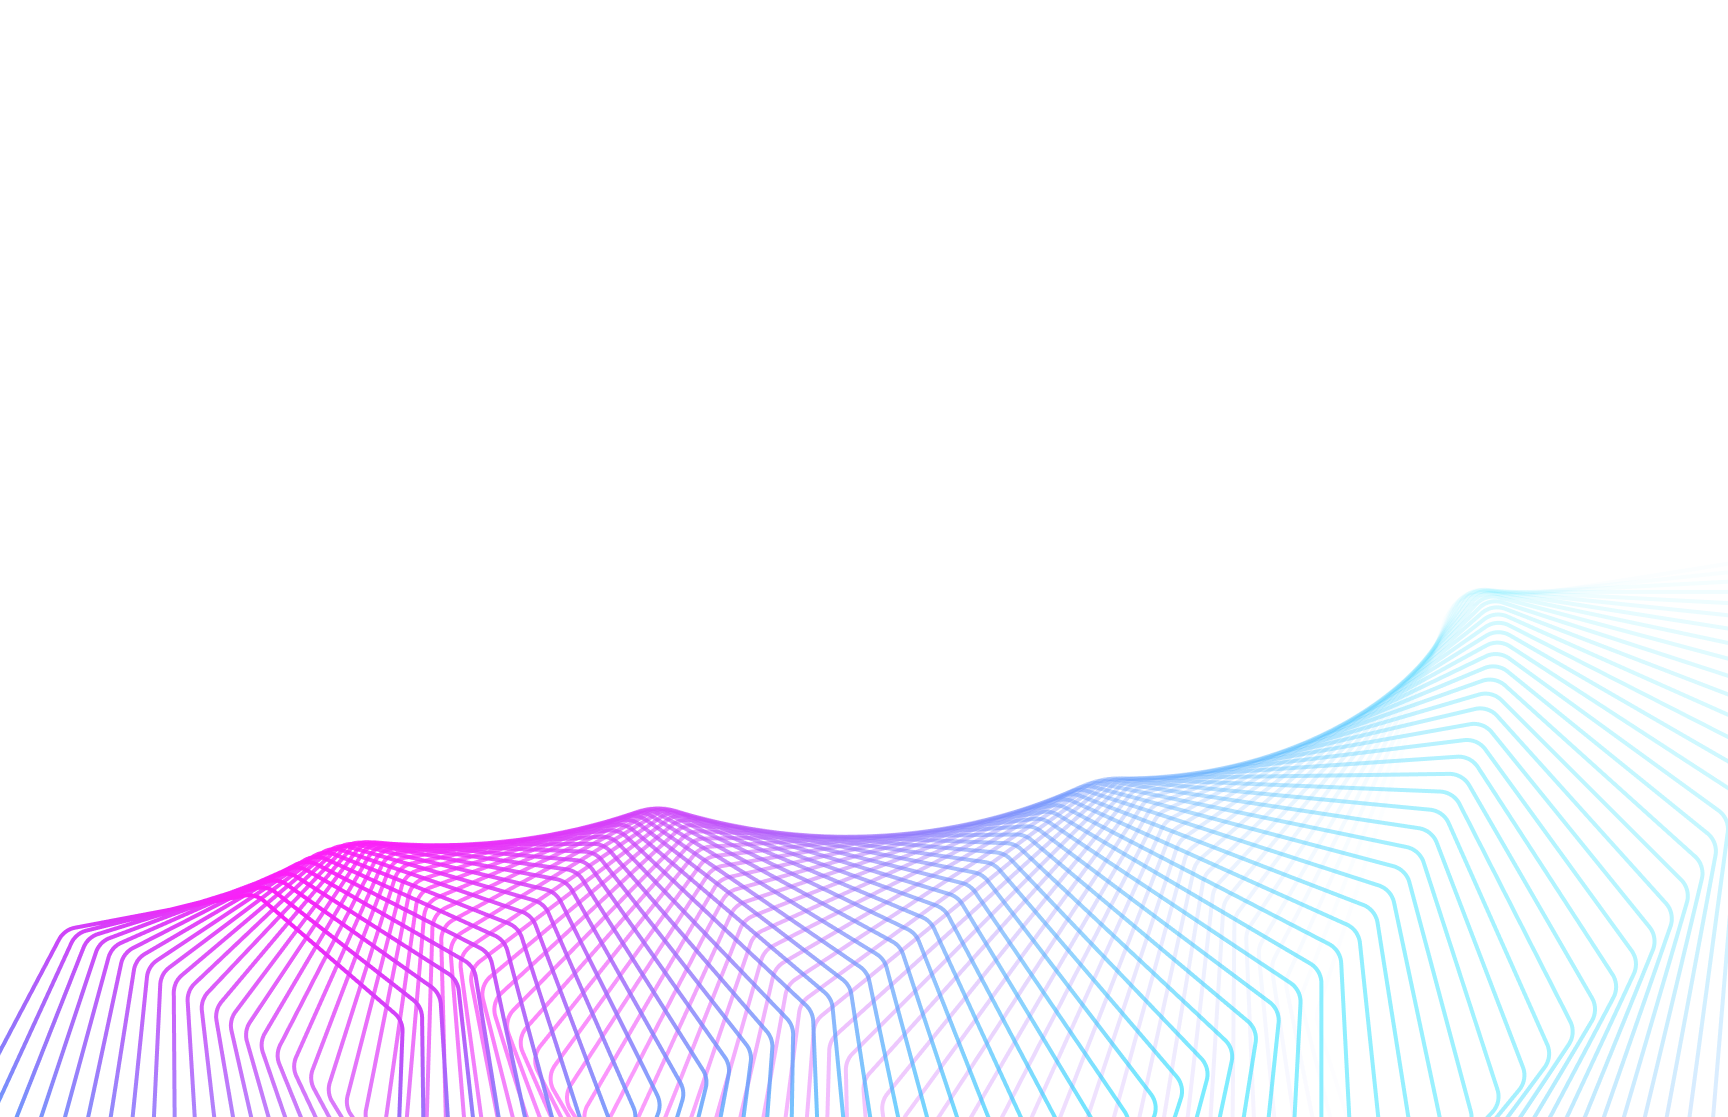
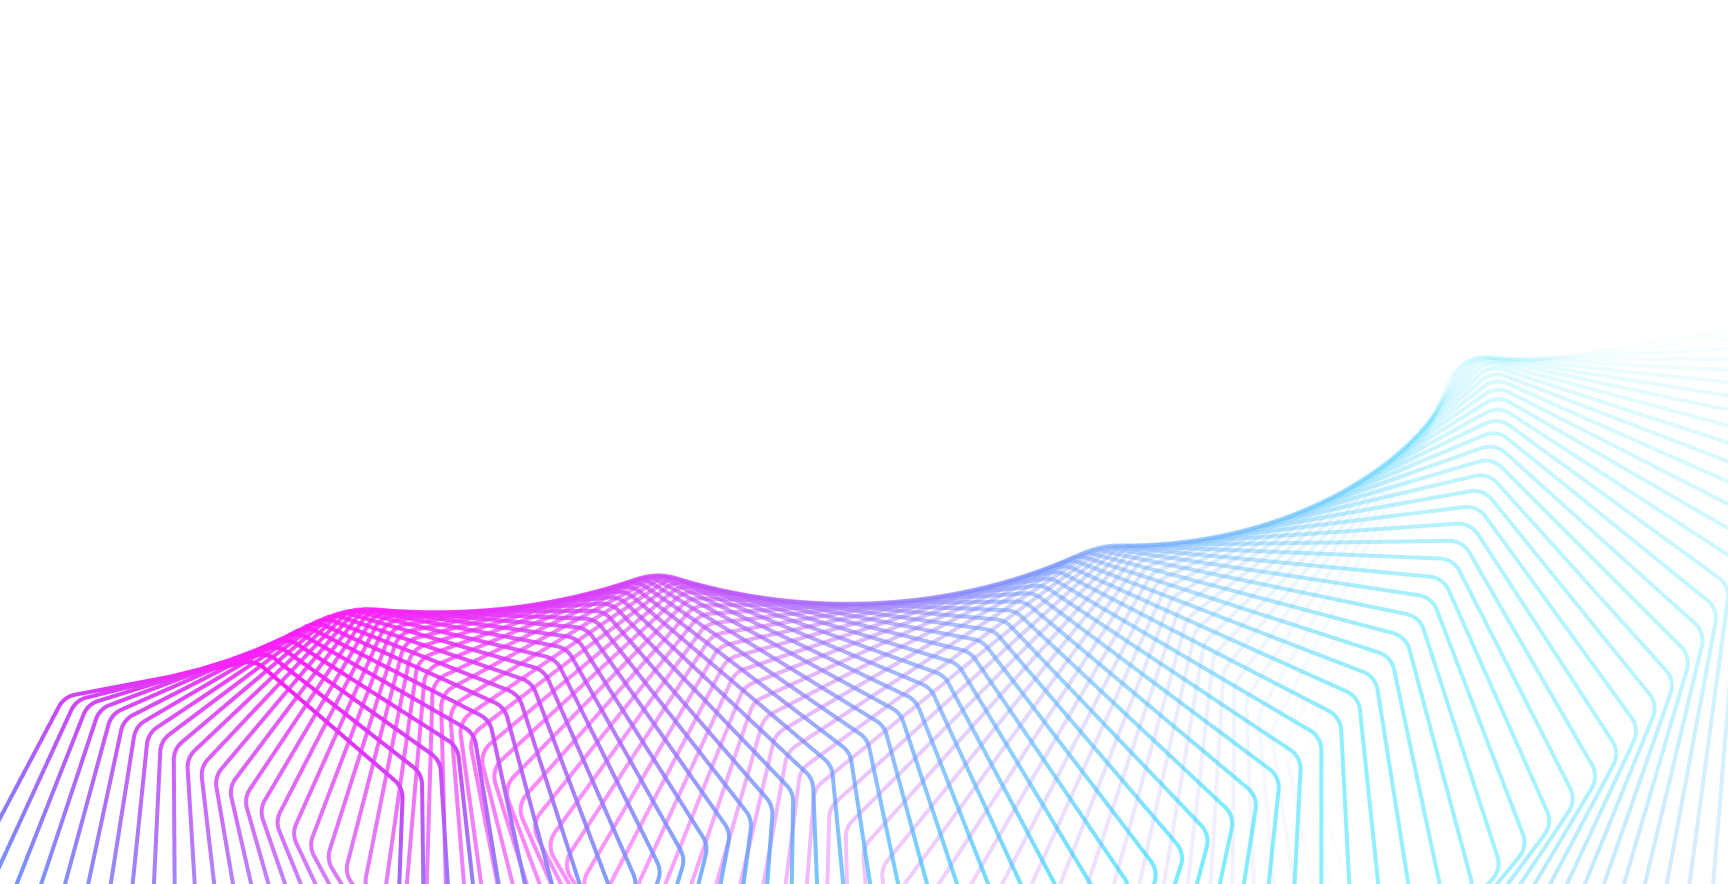
edited summary page background image

Changed region(s): [[0.0, 0.3971, 1.0, 1.0]]

diff --git a/frontend/src/pages/Summary.css b/frontend/src/pages/Summary.css
@@ -22,7 +22,8 @@
     padding: 0px 0px;
     display: flex;
     height: 100vh; /* Optional: Center vertically in the viewport */
-    background: linear-gradient(180deg, #000 0%, rgba(107, 53, 247, 0.20) 100%); /* make gradient and purple stronger */
+    background-image: url("src/img/summaryBackground.png");
+    /* background: linear-gradient(180deg, #000 0%, rgba(107, 53, 247, 0.20) 100%); make gradient and purple stronger */
     align-items: center;
     justify-content: center;
 }
@@ -78,14 +79,8 @@
 }
 
 .backgroundWaves {
-    background-image: url(<src/img/summaryBackground.png>);
-    background-position: center;
-    background-repeat: no-repeat;
-    background-size: cover;
-    height: 500px;
-    width: 100%;
- }
- 
+}
+
 .display-linebreak {
     white-space: pre-line;
   }
